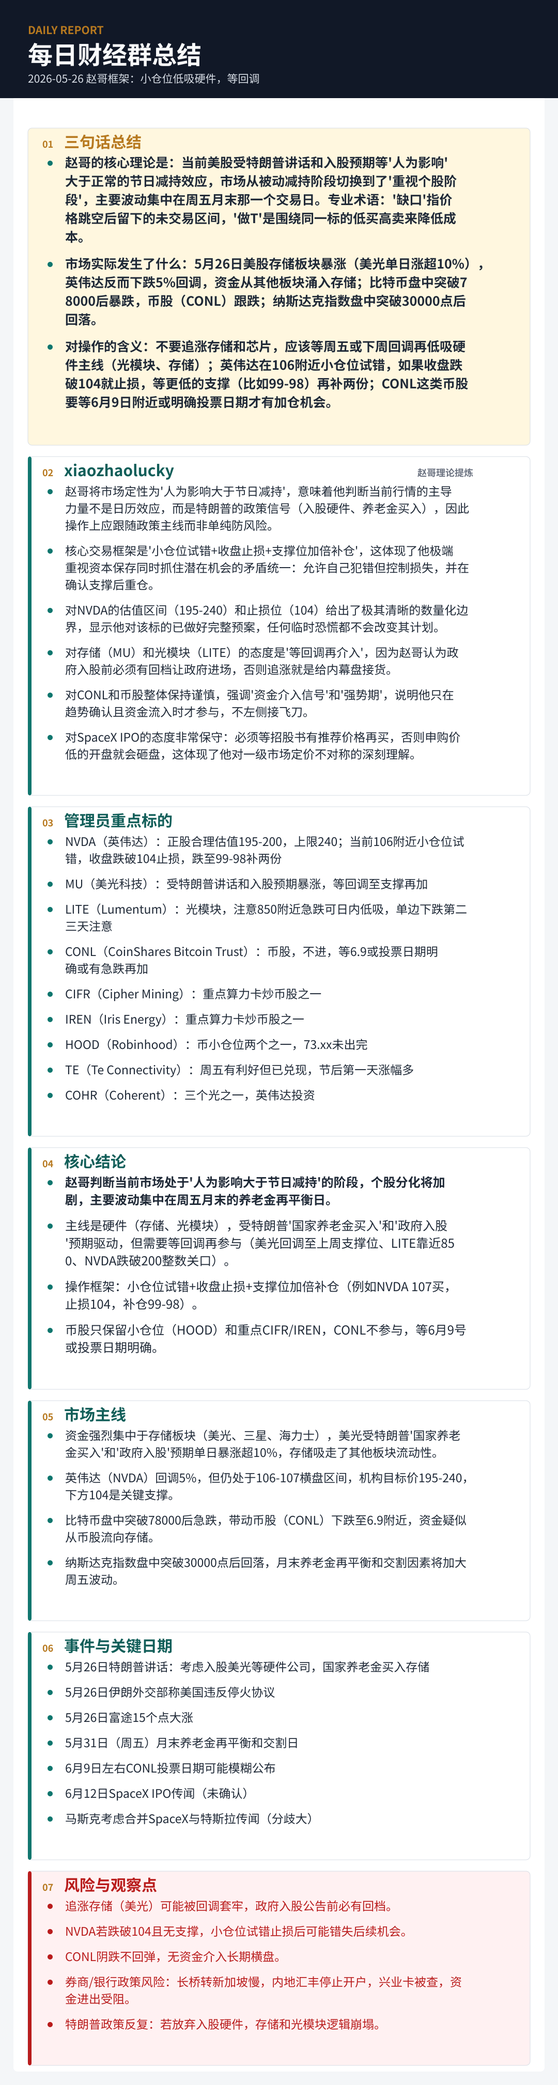
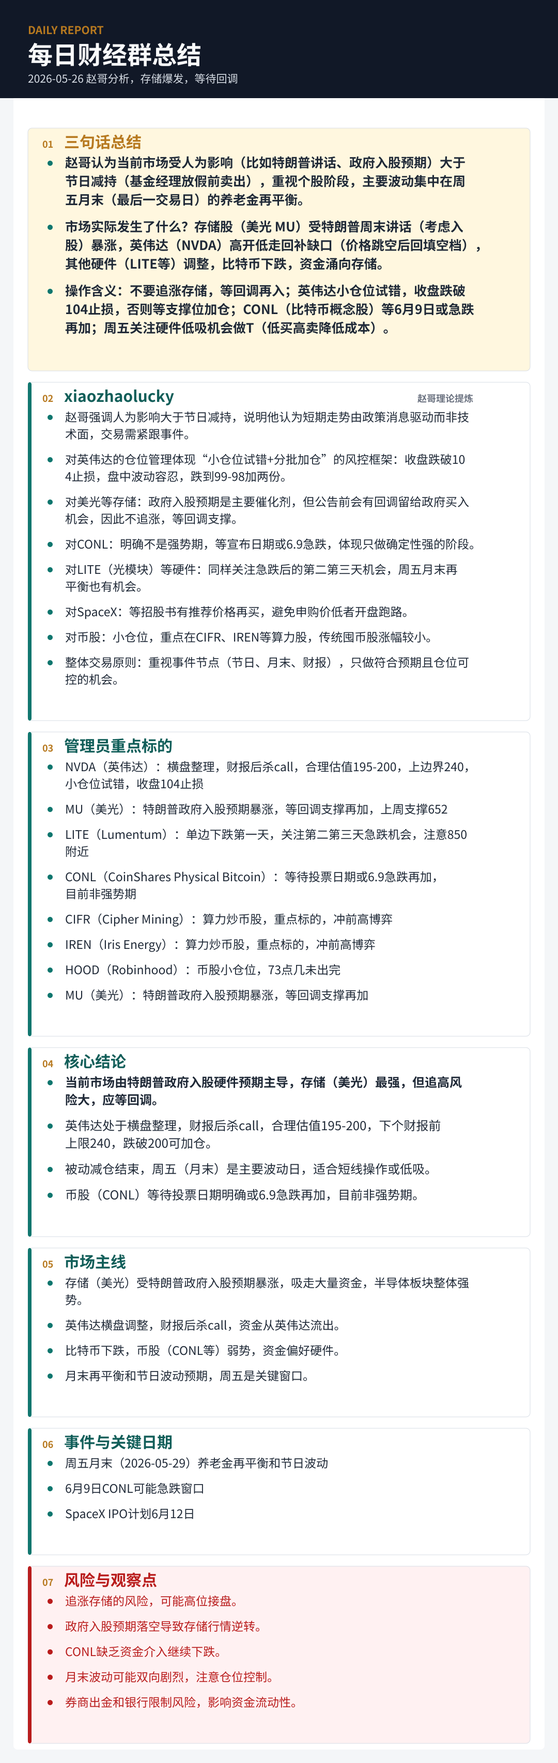
Auto daily publish: 2026-05-27 12:55:42 CST

diff --git a/docs/index.md b/docs/index.md
@@ -1,120 +1,113 @@
 # 财经聊天总结 - 每日定时总结（过去24小时）
 
-> 北京时间：2026-05-27 12:16:58 CST
+> 北京时间：2026-05-27 12:55:42 CST
 
-> 美西时间：2026-05-26 21:16:58 PST
+> 美西时间：2026-05-26 21:55:42 PST
 
-> 美东时间：2026-05-27 00:16:58 EST
+> 美东时间：2026-05-27 00:55:42 EST
 
 > 模型：deepseek-v4-flash
 
 ## 三句话总结
-- 赵哥的核心理论是：当前美股受特朗普讲话和入股预期等'人为影响'大于正常的节日减持效应，市场从被动减持阶段切换到了'重视个股阶段'，主要波动集中在周五月末那一个交易日。专业术语：'缺口'指价格跳空后留下的未交易区间，'做T'是围绕同一标的低买高卖来降低成本。
-- 市场实际发生了什么：5月26日美股存储板块暴涨（美光单日涨超10%），英伟达反而下跌5%回调，资金从其他板块涌入存储；比特币盘中突破78000后暴跌，币股（CONL）跟跌；纳斯达克指数盘中突破30000点后回落。
-- 对操作的含义：不要追涨存储和芯片，应该等周五或下周回调再低吸硬件主线（光模块、存储）；英伟达在106附近小仓位试错，如果收盘跌破104就止损，等更低的支撑（比如99-98）再补两份；CONL这类币股要等6月9日附近或明确投票日期才有加仓机会。
+- 赵哥认为当前市场受人为影响（比如特朗普讲话、政府入股预期）大于节日减持（基金经理放假前卖出），重视个股阶段，主要波动集中在周五月末（最后一交易日）的养老金再平衡。
+- 市场实际发生了什么？存储股（美光 MU）受特朗普周末讲话（考虑入股）暴涨，英伟达（NVDA）高开低走回补缺口（价格跳空后回填空档），其他硬件（LITE等）调整，比特币下跌，资金涌向存储。
+- 操作含义：不要追涨存储，等回调再入；英伟达小仓位试错，收盘跌破104止损，否则等支撑位加仓；CONL（比特币概念股）等6月9日或急跌再加；周五关注硬件低吸机会做T（低买高卖降低成本）。
 
 ## 核心结论
-- 赵哥判断当前市场处于'人为影响大于节日减持'的阶段，个股分化将加剧，主要波动集中在周五月末的养老金再平衡日。
-- 主线是硬件（存储、光模块），受特朗普'国家养老金买入'和'政府入股'预期驱动，但需要等回调再参与（美光回调至上周支撑位、LITE靠近850、NVDA跌破200整数关口）。
-- 操作框架：小仓位试错+收盘止损+支撑位加倍补仓（例如NVDA 107买，止损104，补仓99-98）。
-- 币股只保留小仓位（HOOD）和重点CIFR/IREN，CONL不参与，等6月9号或投票日期明确。
+- 当前市场由特朗普政府入股硬件预期主导，存储（美光）最强，但追高风险大，应等回调。
+- 英伟达处于横盘整理，财报后杀call，合理估值195-200，下个财报前上限240，跌破200可加仓。
+- 被动减仓结束，周五（月末）是主要波动日，适合短线操作或低吸。
+- 币股（CONL）等待投票日期明确或6.9急跌再加，目前非强势期。
 
 ## 市场状态判断
-- 市场处于节日减持结束后的'个股主导阶段'，指数受少数权重股（美光）驱动，分化严重。
-- 资金环境：政策信号（特朗普入股硬件）取代日历效应成为主要驱动力，波动率集中在周五而非全周。
-- 波动结构：NVDA等成长股被存储抽血，形成'硬件涨、AI回调'的跷跷板。
+- 当前市场处于政策驱动型上涨，特朗普政府入股硬件预期主导资金流向。
+- 资金高度集中于存储（美光），其他板块（英伟达、光模块）消化获利盘。
+- 波动率加大，周五（月末）是重要变盘节点。
 
 ### 核心理论
-- 赵哥的'小仓位试错-收盘止损-支撑位补仓'框架本质是一种极简的高胜率赔率管理：用小额损失测试方向，一旦方向错误仅损失小仓位，方向正确则在支撑位加倍。
-- 核心原则是'不追涨，只低吸'：所有加仓动作必须基于价格回到近期支撑或公告后回调。
-- 对政策驱动行情（如特朗普入股）的参与必须等待'政府买入确认'或'资金介入信号'，避免在利好兑现后接盘。
+- 仓位管理：小仓位试错，收盘止损，不追涨，等回调支撑分批加仓。
+- 事件驱动：只做有明确催化剂的阶段（政策讲话、财报、节日前后）。
+- 不参与弱势期：CONL等非强势期等待资金介入信号。
+- 新股策略：等招股书有推荐价格，避免开盘抛压。
 
 ### 证据链
-- NVDA价格行为：财报后杀call两天，然后横盘106-107，符合赵哥说的'横盘一段时间再上去'。
-- 美光价格行为：上周跌至652支撑（赵哥说'上周不就是跌支撑了'），本周受特朗普讲话暴涨，验证了'跌支撑就是机会'。
-- CONL价格行为：跌破7，接近6.9，赵哥说'等6.9左右有急跌再加'，目前价格尚未触发。
-- LITE价格行为：单边下跌第一天（5/26），赵哥说注意第二第三天低吸，且提到850附近。
-- 特朗普讲话：周末说intc成功可以复刻，未来入股其他硬件，直接推动存储和光模块预期。
+- 美光受特朗普周末讲话跳空高开，涨幅达100美元/股。
+- 英伟达高开低走，财报后连续杀call，横盘在106-107附近。
+- LITE单边下跌第一天，赵哥指出后续第二第三天注意。
+- CONL持续下跌未见资金介入，赵哥明确等待6.9或宣布日期。
+- CIFR、IREN等算力股逆势冲前高，符合币股资金博弈。
 
 ### 交易框架拆解
-- **入场条件**：NVDA：收盘不破104则可继续持有小仓位；若跌破104则止损，等待99-98补两份。；MU：等待回调至近期支撑（如上周652附近），或政府入股公告后的回调机会。；LITE：单边下跌第二或第三天，靠近850附近可日内低吸。；CONL：等待投票日期模糊公布或6月9号附近急跌破6.9后再考虑。
-- **持仓逻辑**：小仓位试错单在止损位之上可以持有，不设主观目标，等待逻辑兑现或触发条件。；支撑位补仓后，综合成本降低，可持有至目标区间（如NVDA 195-200）。
-- **退出条件**：NVDA：收盘破104则立即止损；若反弹至195-200合理估值区可考虑止盈部分。；MU：若政府入股公告后暴涨，或达到目标价（上调后），应分批止盈。；所有短线仓位（如LITE日内）当天了结，不隔夜。
-- **仓位纪律**：初始试错仓位不超过总资金的10%。；若止损后，在下一个支撑位可补至三分之二仓位（如NVDA 99-98买两份）。；不因浮亏而加仓，必须等价格回到预设支撑。
-- **风控规则**：严格收盘止损，盘中不操作。；不追涨任何当日涨幅超过5%的标的。；币股（CONL）不参与，直到有明确资金介入信号。；所有基于政策的标的（MU、LITE）必须等待回调，避免给内幕盘接货。
-- **观察信号**：周四-周五是否出现单边下跌第二第三天，即LITE和NVDA的日内低吸机会。；周五月末养老金再平衡和交割是否导致指数波动放大，从而创造硬件低点。；CONL是否在6月9号附近出现急跌至6.9以下，且伴随成交量放大。；特朗普是否进一步明确对美光或其他硬件公司的入股计划。
-- **失效条件**：如果NVDA跌破104后继续加速下跌，且不出现99-98的支撑，则框架失效，应清仓等待更低位。；如果特朗普放弃入股硬件计划，存储和光模块的逻辑瓦解，所有相关标的需重新评估。；如果市场突然转向大盘权重（如银行、消费），硬件主线被证伪。
+- **入场条件**：NVDA：收盘不跌破104可持有，跌破则小仓位止损；若跌至99-98加两份。；MU：等回调至上周支撑（652附近）再考虑。；LITE：单边下跌第二第三天急跌可日内做T，周五再平衡也可关注。；CONL：等待投票日期模糊公布或6.9急跌出现。
+- **持仓逻辑**：NVDA：目标下个财报前240，中间可做T降低成本。；MU：持股等政府入股公告或回调支撑加仓。；LITE：850附近注意支撑，急跌后持有。；CONL：非强势期不持有，等信号。
+- **退出条件**：NVDA：收盘跌破104止损；涨幅达到240附近减仓。；MU：入股公告后若暴涨可考虑止盈部分。；LITE：急跌反弹后做T离场，不贪。；CONL：若跌破6.0且无资金介入则退出观察。
+- **仓位纪律**：NVDA初始小仓位，跌破支撑加至三分之二。；MU回调支撑可加至正常仓位。；CONL等信号再介入，不提前重仓。；总仓位控制，避免单一标的过度集中。
+- **风控规则**：收盘止损，盘中不止损。；不追涨，只低吸。；不参与弱势期（CONL）。；关注周五月末波动，可能双向剧烈。
+- **观察信号**：周五（2026-05-29）月末交割和养老金再平衡的波动。；美光是否回调至上周支撑。；CONL是否有投票日期公布或6.9急跌。；特朗普后续关于硬件入股的讲话。；SpaceX IPO招股书中的推荐价格。
+- **失效条件**：若英伟达连续跌破100且无法收回，则框架失效。；若美光政府入股预期落空（如公告否认），则存储行情逆转。；若市场出现系统性风险（美联储突转鹰、地缘冲突升级），所有框架暂停。；若CONL出现连续下跌无资金介入，则等待策略需重新评估。
 
 ## xiaozhaolucky
 ### 深度解读
-- 赵哥将市场定性为'人为影响大于节日减持'，意味着他判断当前行情的主导力量不是日历效应，而是特朗普的政策信号（入股硬件、养老金买入），因此操作上应跟随政策主线而非单纯防风险。
-- 核心交易框架是'小仓位试错+收盘止损+支撑位加倍补仓'，这体现了他极端重视资本保存同时抓住潜在机会的矛盾统一：允许自己犯错但控制损失，并在确认支撑后重仓。
-- 对NVDA的估值区间（195-240）和止损位（104）给出了极其清晰的数量化边界，显示他对该标的已做好完整预案，任何临时恐慌都不会改变其计划。
-- 对存储（MU）和光模块（LITE）的态度是'等回调再介入'，因为赵哥认为政府入股前必须有回档让政府进场，否则追涨就是给内幕盘接货。
-- 对CONL和币股整体保持谨慎，强调'资金介入信号'和'强势期'，说明他只在趋势确认且资金流入时才参与，不左侧接飞刀。
-- 对SpaceX IPO的态度非常保守：必须等招股书有推荐价格再买，否则申购价低的开盘就会砸盘，这体现了他对一级市场定价不对称的深刻理解。
+- 赵哥强调人为影响大于节日减持，说明他认为短期走势由政策消息驱动而非技术面，交易需紧跟事件。
+- 对英伟达的仓位管理体现“小仓位试错+分批加仓”的风控框架：收盘跌破104止损，盘中波动容忍，跌到99-98加两份。
+- 对美光等存储：政府入股预期是主要催化剂，但公告前会有回调留给政府买入机会，因此不追涨，等回调支撑。
+- 对CONL：明确不是强势期，等宣布日期或6.9急跌，体现只做确定性强的阶段。
+- 对LITE（光模块）等硬件：同样关注急跌后的第二第三天机会，周五月末再平衡也有机会。
+- 对SpaceX：等招股书有推荐价格再买，避免申购价低者开盘跑路。
+- 对币股：小仓位，重点在CIFR、IREN等算力股，传统囤币股涨幅较小。
+- 整体交易原则：重视事件节点（节日、月末、财报），只做符合预期且仓位可控的机会。
 
 ### 管理员重点标的
 | 标的 | 逻辑 | 触发条件 | 动作 | 风险 |
 | --- | --- | --- | --- | --- |
-| NVDA（英伟达） | 正股合理估值195-200，上限240；当前106附近小仓位试错，收盘跌破104止损，跌至99-98补两份 | 待确认 | 观察 | 未明确 |
-| MU（美光科技） | 受特朗普讲话和入股预期暴涨，等回调至支撑再加 | 待确认 | 观察 | 未明确 |
-| LITE（Lumentum） | 光模块，注意850附近急跌可日内低吸，单边下跌第二三天注意 | 待确认 | 观察 | 未明确 |
-| CONL（CoinShares Bitcoin Trust） | 币股，不进，等6.9或投票日期明确或有急跌再加 | 待确认 | 观察 | 未明确 |
-| CIFR（Cipher Mining） | 重点算力卡炒币股之一 | 待确认 | 观察 | 未明确 |
-| IREN（Iris Energy） | 重点算力卡炒币股之一 | 待确认 | 观察 | 未明确 |
-| HOOD（Robinhood） | 币小仓位两个之一，73.xx未出完 | 待确认 | 观察 | 未明确 |
-| TE（Te Connectivity） | 周五有利好但已兑现，节后第一天涨幅多 | 待确认 | 观察 | 未明确 |
-| COHR（Coherent） | 三个光之一，英伟达投资 | 待确认 | 观察 | 未明确 |
-| GLW（康宁） | 三个光之一，英伟达投资 | 待确认 | 观察 | 未明确 |
-| NVDA（英伟达） | 财报后杀call2天，横盘后再上去；机构给合理估值195-200，上限下个财报前240 | 收盘跌破104止损；200整数位跌破买多点 | 当前小仓位持有，若跌至99-98补两份 | 跌破104继续下跌则框架失效 |
-| MU（美光科技） | 特朗普讲话说考虑入股，像intc那样；未入股前会回调给政府入的机会 | 回调至支撑位（如652附近） | 回调后再加 | 回调幅度可能不够，或政府入股落空 |
-| LITE（Lumentum） | 同为光模块，受特朗普访华硬件预期，单边下跌第二三天注意 | 单边下跌第二天或第三天，靠近850 | 日内低吸，当天了结 | 继续下跌无支撑 |
-| CONL（CoinShares Bitcoin Trust） | 不是强势期，等有资金介入才会加 | 投票日期模糊公布或6.9左右急跌 | 暂不加仓，等明确信号 | 继续阴跌无资金介入 |
-| CIFR（Cipher Mining） | 传统囤币股涨幅小，算力卡炒币股幅度更大 | 未明确 | 持有 | 比特币波动 |
-| IREN（Iris Energy） | 同上 | 未明确 | 持有 | 比特币波动 |
+| NVDA（英伟达） | 横盘整理，财报后杀call，合理估值195-200，上边界240，小仓位试错，收盘104止损 | 待确认 | 观察 | 未明确 |
+| MU（美光） | 特朗普政府入股预期暴涨，等回调支撑再加，上周支撑652 | 待确认 | 观察 | 未明确 |
+| LITE（Lumentum） | 单边下跌第一天，关注第二第三天急跌机会，注意850附近 | 待确认 | 观察 | 未明确 |
+| CONL（CoinShares Physical Bitcoin） | 等待投票日期或6.9急跌再加，目前非强势期 | 待确认 | 观察 | 未明确 |
+| CIFR（Cipher Mining） | 算力炒币股，重点标的，冲前高博弈 | 待确认 | 观察 | 未明确 |
+| IREN（Iris Energy） | 算力炒币股，重点标的，冲前高博弈 | 待确认 | 观察 | 未明确 |
+| HOOD（Robinhood） | 币股小仓位，73点几未出完 | 待确认 | 观察 | 未明确 |
+| MU（美光） | 特朗普周末讲话考虑入股美光像英特尔那样，今天涨多；没有入股前都会回调给政府入的机会 | 回调至上周支撑（652附近） | 稍微回调点再加，不追涨 | 政府入股预期落空或延迟 |
 
 ## 其他用户
 ### 用户观点提炼
-- 多数用户踏空存储（美光）和半导体，情绪急躁，有人想追涨，有人后悔上次回调没买。
-- 部分用户讨论了券商限制、账户转移（嘉信、盈透、长桥转新加坡）以及香港身份问题，担忧资金出逃风险。
-- 有用户提出'祖训看空不做空'，并回忆做空亏损经历；也有用户尝试做空半导体（SOXS）并迅速平仓获利2%。
-- 用户对特斯拉/SpaceX合并传闻有分歧：有人认为不可能，有人认为消息已提前反应，赵哥未对此表态。
-- 用户提到了SOFI、PLTR、ASTS、AMD、COIN等标的，但并无一致操作方向。
+- 踏空存储（美光）的后悔和FOMO情绪，多次提到“买不回美光”“存储太强”。
+- 英伟达下跌时讨论止损和支撑，部分用户表示“一股不卖”“等赵哥操作”。
+- 对CONL下跌的担忧，有人问“要不要加”“见6了”。
+- 讨论特斯拉和SpaceX合并传闻，多数人认为可能性低。
+- 讨论银行限制、券商出金变慢等风险，表达焦虑。
 
 ### 普通用户提到的标的
-- **SOFI（SoFi Technologies）**: 用户讨论：增持消息拉高后回落，有用户已回本
-- **TSLA（特斯拉）**: 用户讨论：SpaceX合并传闻导致尾盘拉升，多数认为不可能
-- **PLTR（Palantir）**: 用户讨论：有用户提到以前2块多买过，现在可能到100
-- **ASTS（AST SpaceMobile）**: 用户讨论：涨得猛，但管理员表示不会做太空板块
-- **MSFT（微软）**: 用户讨论：软，没动静
-- **WMT（沃尔玛）**: 用户讨论：没动静
-- **AMD（超威半导体）**: 用户讨论：周哥提到AMD到500了
-- **COIN（Coinbase）**: 用户讨论：币股不涨
-- **SOXS（Direxion Daily Semiconductor Bear 3x Shares）**: 用户讨论：做空半导体，小赚2%跑路
+- **TSLA（特斯拉）**: SpaceX合并传闻，用户讨论，涨幅一般
+- **SOFI（SoFi）**: 用户持有，今天涨后回落
+- **PLTR（Palantir）**: 用户提到之前买过2块多
+- **ASTS（AST SpaceMobile）**: 用户询问，赵哥表示不会做
+- **AMD（AMD）**: 用户提到股价到500
+- **COIN（Coinbase）**: 用户讨论比特币跌但coin不涨
+- **SOXS（三倍做空半导体）**: 用户提到7块了，祖训看空不做空
+- **IBM（IBM）**: 用户提到入了20亿半死不活
+- **TMUS（T-Mobile）**: 用户询问SpaceX合作伙伴
+- **JPM（摩根大通）**: 用户问金融板块
+- **APH（安费诺）**: 用户抄了一笔询问
 
 ## 市场主线
-- 资金强烈集中于存储板块（美光、三星、海力士），美光受特朗普'国家养老金买入'和'政府入股'预期单日暴涨超10%，存储吸走了其他板块流动性。
-- 英伟达（NVDA）回调5%，但仍处于106-107横盘区间，机构目标价195-240，下方104是关键支撑。
-- 比特币盘中突破78000后急跌，带动币股（CONL）下跌至6.9附近，资金疑似从币股流向存储。
-- 纳斯达克指数盘中突破30000点后回落，月末养老金再平衡和交割因素将加大周五波动。
+- 存储（美光）受特朗普政府入股预期暴涨，吸走大量资金，半导体板块整体强势。
+- 英伟达横盘调整，财报后杀call，资金从英伟达流出。
+- 比特币下跌，币股（CONL等）弱势，资金偏好硬件。
+- 月末再平衡和节日波动预期，周五是关键窗口。
 
 ## 期权与交易策略
 - 暂无明确记录。
 
 ## 事件与关键日期
-- 5月26日特朗普讲话：考虑入股美光等硬件公司，国家养老金买入存储
-- 5月26日伊朗外交部称美国违反停火协议
-- 5月26日富途15个点大涨
-- 5月31日（周五）月末养老金再平衡和交割日
-- 6月9日左右CONL投票日期可能模糊公布
-- 6月12日SpaceX IPO传闻（未确认）
-- 马斯克考虑合并SpaceX与特斯拉传闻（分歧大）
+- 周五月末（2026-05-29）养老金再平衡和节日波动
+- 6月9日CONL可能急跌窗口
+- SpaceX IPO计划6月12日
 
 ## 风险与观察点
-- 追涨存储（美光）可能被回调套牢，政府入股公告前必有回档。
-- NVDA若跌破104且无支撑，小仓位试错止损后可能错失后续机会。
-- CONL阴跌不回弹，无资金介入长期横盘。
-- 券商/银行政策风险：长桥转新加坡慢，内地汇丰停止开户，兴业卡被查，资金进出受阻。
-- 特朗普政策反复：若放弃入股硬件，存储和光模块逻辑崩塌。
+- 追涨存储的风险，可能高位接盘。
+- 政府入股预期落空导致存储行情逆转。
+- CONL缺乏资金介入继续下跌。
+- 月末波动可能双向剧烈，注意仓位控制。
+- 券商出金和银行限制风险，影响资金流动性。
 

diff --git a/docs/summaries/2026-05/2026-05-27-每日总结.md b/docs/summaries/2026-05/2026-05-27-每日总结.md
@@ -1,117 +1,110 @@
-# 2026-05-27 12:16:58 CST 总结 - 每日定时总结（过去24小时）
+# 2026-05-27 12:55:42 CST 总结 - 每日定时总结（过去24小时）
 
-> 美西时间：2026-05-26 21:16:58 PST
+> 美西时间：2026-05-26 21:55:42 PST
 
-> 美东时间：2026-05-27 00:16:58 EST
+> 美东时间：2026-05-27 00:55:42 EST
 
 > 模型：deepseek-v4-flash
 
 ## 三句话总结
-- 赵哥的核心理论是：当前美股受特朗普讲话和入股预期等'人为影响'大于正常的节日减持效应，市场从被动减持阶段切换到了'重视个股阶段'，主要波动集中在周五月末那一个交易日。专业术语：'缺口'指价格跳空后留下的未交易区间，'做T'是围绕同一标的低买高卖来降低成本。
-- 市场实际发生了什么：5月26日美股存储板块暴涨（美光单日涨超10%），英伟达反而下跌5%回调，资金从其他板块涌入存储；比特币盘中突破78000后暴跌，币股（CONL）跟跌；纳斯达克指数盘中突破30000点后回落。
-- 对操作的含义：不要追涨存储和芯片，应该等周五或下周回调再低吸硬件主线（光模块、存储）；英伟达在106附近小仓位试错，如果收盘跌破104就止损，等更低的支撑（比如99-98）再补两份；CONL这类币股要等6月9日附近或明确投票日期才有加仓机会。
+- 赵哥认为当前市场受人为影响（比如特朗普讲话、政府入股预期）大于节日减持（基金经理放假前卖出），重视个股阶段，主要波动集中在周五月末（最后一交易日）的养老金再平衡。
+- 市场实际发生了什么？存储股（美光 MU）受特朗普周末讲话（考虑入股）暴涨，英伟达（NVDA）高开低走回补缺口（价格跳空后回填空档），其他硬件（LITE等）调整，比特币下跌，资金涌向存储。
+- 操作含义：不要追涨存储，等回调再入；英伟达小仓位试错，收盘跌破104止损，否则等支撑位加仓；CONL（比特币概念股）等6月9日或急跌再加；周五关注硬件低吸机会做T（低买高卖降低成本）。
 
 ## 核心结论
-- 赵哥判断当前市场处于'人为影响大于节日减持'的阶段，个股分化将加剧，主要波动集中在周五月末的养老金再平衡日。
-- 主线是硬件（存储、光模块），受特朗普'国家养老金买入'和'政府入股'预期驱动，但需要等回调再参与（美光回调至上周支撑位、LITE靠近850、NVDA跌破200整数关口）。
-- 操作框架：小仓位试错+收盘止损+支撑位加倍补仓（例如NVDA 107买，止损104，补仓99-98）。
-- 币股只保留小仓位（HOOD）和重点CIFR/IREN，CONL不参与，等6月9号或投票日期明确。
+- 当前市场由特朗普政府入股硬件预期主导，存储（美光）最强，但追高风险大，应等回调。
+- 英伟达处于横盘整理，财报后杀call，合理估值195-200，下个财报前上限240，跌破200可加仓。
+- 被动减仓结束，周五（月末）是主要波动日，适合短线操作或低吸。
+- 币股（CONL）等待投票日期明确或6.9急跌再加，目前非强势期。
 
 ## 市场状态判断
-- 市场处于节日减持结束后的'个股主导阶段'，指数受少数权重股（美光）驱动，分化严重。
-- 资金环境：政策信号（特朗普入股硬件）取代日历效应成为主要驱动力，波动率集中在周五而非全周。
-- 波动结构：NVDA等成长股被存储抽血，形成'硬件涨、AI回调'的跷跷板。
+- 当前市场处于政策驱动型上涨，特朗普政府入股硬件预期主导资金流向。
+- 资金高度集中于存储（美光），其他板块（英伟达、光模块）消化获利盘。
+- 波动率加大，周五（月末）是重要变盘节点。
 
 ### 核心理论
-- 赵哥的'小仓位试错-收盘止损-支撑位补仓'框架本质是一种极简的高胜率赔率管理：用小额损失测试方向，一旦方向错误仅损失小仓位，方向正确则在支撑位加倍。
-- 核心原则是'不追涨，只低吸'：所有加仓动作必须基于价格回到近期支撑或公告后回调。
-- 对政策驱动行情（如特朗普入股）的参与必须等待'政府买入确认'或'资金介入信号'，避免在利好兑现后接盘。
+- 仓位管理：小仓位试错，收盘止损，不追涨，等回调支撑分批加仓。
+- 事件驱动：只做有明确催化剂的阶段（政策讲话、财报、节日前后）。
+- 不参与弱势期：CONL等非强势期等待资金介入信号。
+- 新股策略：等招股书有推荐价格，避免开盘抛压。
 
 ### 证据链
-- NVDA价格行为：财报后杀call两天，然后横盘106-107，符合赵哥说的'横盘一段时间再上去'。
-- 美光价格行为：上周跌至652支撑（赵哥说'上周不就是跌支撑了'），本周受特朗普讲话暴涨，验证了'跌支撑就是机会'。
-- CONL价格行为：跌破7，接近6.9，赵哥说'等6.9左右有急跌再加'，目前价格尚未触发。
-- LITE价格行为：单边下跌第一天（5/26），赵哥说注意第二第三天低吸，且提到850附近。
-- 特朗普讲话：周末说intc成功可以复刻，未来入股其他硬件，直接推动存储和光模块预期。
+- 美光受特朗普周末讲话跳空高开，涨幅达100美元/股。
+- 英伟达高开低走，财报后连续杀call，横盘在106-107附近。
+- LITE单边下跌第一天，赵哥指出后续第二第三天注意。
+- CONL持续下跌未见资金介入，赵哥明确等待6.9或宣布日期。
+- CIFR、IREN等算力股逆势冲前高，符合币股资金博弈。
 
 ### 交易框架拆解
-- **入场条件**：NVDA：收盘不破104则可继续持有小仓位；若跌破104则止损，等待99-98补两份。；MU：等待回调至近期支撑（如上周652附近），或政府入股公告后的回调机会。；LITE：单边下跌第二或第三天，靠近850附近可日内低吸。；CONL：等待投票日期模糊公布或6月9号附近急跌破6.9后再考虑。
-- **持仓逻辑**：小仓位试错单在止损位之上可以持有，不设主观目标，等待逻辑兑现或触发条件。；支撑位补仓后，综合成本降低，可持有至目标区间（如NVDA 195-200）。
-- **退出条件**：NVDA：收盘破104则立即止损；若反弹至195-200合理估值区可考虑止盈部分。；MU：若政府入股公告后暴涨，或达到目标价（上调后），应分批止盈。；所有短线仓位（如LITE日内）当天了结，不隔夜。
-- **仓位纪律**：初始试错仓位不超过总资金的10%。；若止损后，在下一个支撑位可补至三分之二仓位（如NVDA 99-98买两份）。；不因浮亏而加仓，必须等价格回到预设支撑。
-- **风控规则**：严格收盘止损，盘中不操作。；不追涨任何当日涨幅超过5%的标的。；币股（CONL）不参与，直到有明确资金介入信号。；所有基于政策的标的（MU、LITE）必须等待回调，避免给内幕盘接货。
-- **观察信号**：周四-周五是否出现单边下跌第二第三天，即LITE和NVDA的日内低吸机会。；周五月末养老金再平衡和交割是否导致指数波动放大，从而创造硬件低点。；CONL是否在6月9号附近出现急跌至6.9以下，且伴随成交量放大。；特朗普是否进一步明确对美光或其他硬件公司的入股计划。
-- **失效条件**：如果NVDA跌破104后继续加速下跌，且不出现99-98的支撑，则框架失效，应清仓等待更低位。；如果特朗普放弃入股硬件计划，存储和光模块的逻辑瓦解，所有相关标的需重新评估。；如果市场突然转向大盘权重（如银行、消费），硬件主线被证伪。
+- **入场条件**：NVDA：收盘不跌破104可持有，跌破则小仓位止损；若跌至99-98加两份。；MU：等回调至上周支撑（652附近）再考虑。；LITE：单边下跌第二第三天急跌可日内做T，周五再平衡也可关注。；CONL：等待投票日期模糊公布或6.9急跌出现。
+- **持仓逻辑**：NVDA：目标下个财报前240，中间可做T降低成本。；MU：持股等政府入股公告或回调支撑加仓。；LITE：850附近注意支撑，急跌后持有。；CONL：非强势期不持有，等信号。
+- **退出条件**：NVDA：收盘跌破104止损；涨幅达到240附近减仓。；MU：入股公告后若暴涨可考虑止盈部分。；LITE：急跌反弹后做T离场，不贪。；CONL：若跌破6.0且无资金介入则退出观察。
+- **仓位纪律**：NVDA初始小仓位，跌破支撑加至三分之二。；MU回调支撑可加至正常仓位。；CONL等信号再介入，不提前重仓。；总仓位控制，避免单一标的过度集中。
+- **风控规则**：收盘止损，盘中不止损。；不追涨，只低吸。；不参与弱势期（CONL）。；关注周五月末波动，可能双向剧烈。
+- **观察信号**：周五（2026-05-29）月末交割和养老金再平衡的波动。；美光是否回调至上周支撑。；CONL是否有投票日期公布或6.9急跌。；特朗普后续关于硬件入股的讲话。；SpaceX IPO招股书中的推荐价格。
+- **失效条件**：若英伟达连续跌破100且无法收回，则框架失效。；若美光政府入股预期落空（如公告否认），则存储行情逆转。；若市场出现系统性风险（美联储突转鹰、地缘冲突升级），所有框架暂停。；若CONL出现连续下跌无资金介入，则等待策略需重新评估。
 
 ## xiaozhaolucky
 ### 深度解读
-- 赵哥将市场定性为'人为影响大于节日减持'，意味着他判断当前行情的主导力量不是日历效应，而是特朗普的政策信号（入股硬件、养老金买入），因此操作上应跟随政策主线而非单纯防风险。
-- 核心交易框架是'小仓位试错+收盘止损+支撑位加倍补仓'，这体现了他极端重视资本保存同时抓住潜在机会的矛盾统一：允许自己犯错但控制损失，并在确认支撑后重仓。
-- 对NVDA的估值区间（195-240）和止损位（104）给出了极其清晰的数量化边界，显示他对该标的已做好完整预案，任何临时恐慌都不会改变其计划。
-- 对存储（MU）和光模块（LITE）的态度是'等回调再介入'，因为赵哥认为政府入股前必须有回档让政府进场，否则追涨就是给内幕盘接货。
-- 对CONL和币股整体保持谨慎，强调'资金介入信号'和'强势期'，说明他只在趋势确认且资金流入时才参与，不左侧接飞刀。
-- 对SpaceX IPO的态度非常保守：必须等招股书有推荐价格再买，否则申购价低的开盘就会砸盘，这体现了他对一级市场定价不对称的深刻理解。
+- 赵哥强调人为影响大于节日减持，说明他认为短期走势由政策消息驱动而非技术面，交易需紧跟事件。
+- 对英伟达的仓位管理体现“小仓位试错+分批加仓”的风控框架：收盘跌破104止损，盘中波动容忍，跌到99-98加两份。
+- 对美光等存储：政府入股预期是主要催化剂，但公告前会有回调留给政府买入机会，因此不追涨，等回调支撑。
+- 对CONL：明确不是强势期，等宣布日期或6.9急跌，体现只做确定性强的阶段。
+- 对LITE（光模块）等硬件：同样关注急跌后的第二第三天机会，周五月末再平衡也有机会。
+- 对SpaceX：等招股书有推荐价格再买，避免申购价低者开盘跑路。
+- 对币股：小仓位，重点在CIFR、IREN等算力股，传统囤币股涨幅较小。
+- 整体交易原则：重视事件节点（节日、月末、财报），只做符合预期且仓位可控的机会。
 
 ### 管理员重点标的
 | 标的 | 逻辑 | 触发条件 | 动作 | 风险 |
 | --- | --- | --- | --- | --- |
-| NVDA（英伟达） | 正股合理估值195-200，上限240；当前106附近小仓位试错，收盘跌破104止损，跌至99-98补两份 | 待确认 | 观察 | 未明确 |
-| MU（美光科技） | 受特朗普讲话和入股预期暴涨，等回调至支撑再加 | 待确认 | 观察 | 未明确 |
-| LITE（Lumentum） | 光模块，注意850附近急跌可日内低吸，单边下跌第二三天注意 | 待确认 | 观察 | 未明确 |
-| CONL（CoinShares Bitcoin Trust） | 币股，不进，等6.9或投票日期明确或有急跌再加 | 待确认 | 观察 | 未明确 |
-| CIFR（Cipher Mining） | 重点算力卡炒币股之一 | 待确认 | 观察 | 未明确 |
-| IREN（Iris Energy） | 重点算力卡炒币股之一 | 待确认 | 观察 | 未明确 |
-| HOOD（Robinhood） | 币小仓位两个之一，73.xx未出完 | 待确认 | 观察 | 未明确 |
-| TE（Te Connectivity） | 周五有利好但已兑现，节后第一天涨幅多 | 待确认 | 观察 | 未明确 |
-| COHR（Coherent） | 三个光之一，英伟达投资 | 待确认 | 观察 | 未明确 |
-| GLW（康宁） | 三个光之一，英伟达投资 | 待确认 | 观察 | 未明确 |
-| NVDA（英伟达） | 财报后杀call2天，横盘后再上去；机构给合理估值195-200，上限下个财报前240 | 收盘跌破104止损；200整数位跌破买多点 | 当前小仓位持有，若跌至99-98补两份 | 跌破104继续下跌则框架失效 |
-| MU（美光科技） | 特朗普讲话说考虑入股，像intc那样；未入股前会回调给政府入的机会 | 回调至支撑位（如652附近） | 回调后再加 | 回调幅度可能不够，或政府入股落空 |
-| LITE（Lumentum） | 同为光模块，受特朗普访华硬件预期，单边下跌第二三天注意 | 单边下跌第二天或第三天，靠近850 | 日内低吸，当天了结 | 继续下跌无支撑 |
-| CONL（CoinShares Bitcoin Trust） | 不是强势期，等有资金介入才会加 | 投票日期模糊公布或6.9左右急跌 | 暂不加仓，等明确信号 | 继续阴跌无资金介入 |
-| CIFR（Cipher Mining） | 传统囤币股涨幅小，算力卡炒币股幅度更大 | 未明确 | 持有 | 比特币波动 |
-| IREN（Iris Energy） | 同上 | 未明确 | 持有 | 比特币波动 |
+| NVDA（英伟达） | 横盘整理，财报后杀call，合理估值195-200，上边界240，小仓位试错，收盘104止损 | 待确认 | 观察 | 未明确 |
+| MU（美光） | 特朗普政府入股预期暴涨，等回调支撑再加，上周支撑652 | 待确认 | 观察 | 未明确 |
+| LITE（Lumentum） | 单边下跌第一天，关注第二第三天急跌机会，注意850附近 | 待确认 | 观察 | 未明确 |
+| CONL（CoinShares Physical Bitcoin） | 等待投票日期或6.9急跌再加，目前非强势期 | 待确认 | 观察 | 未明确 |
+| CIFR（Cipher Mining） | 算力炒币股，重点标的，冲前高博弈 | 待确认 | 观察 | 未明确 |
+| IREN（Iris Energy） | 算力炒币股，重点标的，冲前高博弈 | 待确认 | 观察 | 未明确 |
+| HOOD（Robinhood） | 币股小仓位，73点几未出完 | 待确认 | 观察 | 未明确 |
+| MU（美光） | 特朗普周末讲话考虑入股美光像英特尔那样，今天涨多；没有入股前都会回调给政府入的机会 | 回调至上周支撑（652附近） | 稍微回调点再加，不追涨 | 政府入股预期落空或延迟 |
 
 ## 其他用户
 ### 用户观点提炼
-- 多数用户踏空存储（美光）和半导体，情绪急躁，有人想追涨，有人后悔上次回调没买。
-- 部分用户讨论了券商限制、账户转移（嘉信、盈透、长桥转新加坡）以及香港身份问题，担忧资金出逃风险。
-- 有用户提出'祖训看空不做空'，并回忆做空亏损经历；也有用户尝试做空半导体（SOXS）并迅速平仓获利2%。
-- 用户对特斯拉/SpaceX合并传闻有分歧：有人认为不可能，有人认为消息已提前反应，赵哥未对此表态。
-- 用户提到了SOFI、PLTR、ASTS、AMD、COIN等标的，但并无一致操作方向。
+- 踏空存储（美光）的后悔和FOMO情绪，多次提到“买不回美光”“存储太强”。
+- 英伟达下跌时讨论止损和支撑，部分用户表示“一股不卖”“等赵哥操作”。
+- 对CONL下跌的担忧，有人问“要不要加”“见6了”。
+- 讨论特斯拉和SpaceX合并传闻，多数人认为可能性低。
+- 讨论银行限制、券商出金变慢等风险，表达焦虑。
 
 ### 普通用户提到的标的
-- **SOFI（SoFi Technologies）**: 用户讨论：增持消息拉高后回落，有用户已回本
-- **TSLA（特斯拉）**: 用户讨论：SpaceX合并传闻导致尾盘拉升，多数认为不可能
-- **PLTR（Palantir）**: 用户讨论：有用户提到以前2块多买过，现在可能到100
-- **ASTS（AST SpaceMobile）**: 用户讨论：涨得猛，但管理员表示不会做太空板块
-- **MSFT（微软）**: 用户讨论：软，没动静
-- **WMT（沃尔玛）**: 用户讨论：没动静
-- **AMD（超威半导体）**: 用户讨论：周哥提到AMD到500了
-- **COIN（Coinbase）**: 用户讨论：币股不涨
-- **SOXS（Direxion Daily Semiconductor Bear 3x Shares）**: 用户讨论：做空半导体，小赚2%跑路
+- **TSLA（特斯拉）**: SpaceX合并传闻，用户讨论，涨幅一般
+- **SOFI（SoFi）**: 用户持有，今天涨后回落
+- **PLTR（Palantir）**: 用户提到之前买过2块多
+- **ASTS（AST SpaceMobile）**: 用户询问，赵哥表示不会做
+- **AMD（AMD）**: 用户提到股价到500
+- **COIN（Coinbase）**: 用户讨论比特币跌但coin不涨
+- **SOXS（三倍做空半导体）**: 用户提到7块了，祖训看空不做空
+- **IBM（IBM）**: 用户提到入了20亿半死不活
+- **TMUS（T-Mobile）**: 用户询问SpaceX合作伙伴
+- **JPM（摩根大通）**: 用户问金融板块
+- **APH（安费诺）**: 用户抄了一笔询问
 
 ## 市场主线
-- 资金强烈集中于存储板块（美光、三星、海力士），美光受特朗普'国家养老金买入'和'政府入股'预期单日暴涨超10%，存储吸走了其他板块流动性。
-- 英伟达（NVDA）回调5%，但仍处于106-107横盘区间，机构目标价195-240，下方104是关键支撑。
-- 比特币盘中突破78000后急跌，带动币股（CONL）下跌至6.9附近，资金疑似从币股流向存储。
-- 纳斯达克指数盘中突破30000点后回落，月末养老金再平衡和交割因素将加大周五波动。
+- 存储（美光）受特朗普政府入股预期暴涨，吸走大量资金，半导体板块整体强势。
+- 英伟达横盘调整，财报后杀call，资金从英伟达流出。
+- 比特币下跌，币股（CONL等）弱势，资金偏好硬件。
+- 月末再平衡和节日波动预期，周五是关键窗口。
 
 ## 期权与交易策略
 - 暂无明确记录。
 
 ## 事件与关键日期
-- 5月26日特朗普讲话：考虑入股美光等硬件公司，国家养老金买入存储
-- 5月26日伊朗外交部称美国违反停火协议
-- 5月26日富途15个点大涨
-- 5月31日（周五）月末养老金再平衡和交割日
-- 6月9日左右CONL投票日期可能模糊公布
-- 6月12日SpaceX IPO传闻（未确认）
-- 马斯克考虑合并SpaceX与特斯拉传闻（分歧大）
+- 周五月末（2026-05-29）养老金再平衡和节日波动
+- 6月9日CONL可能急跌窗口
+- SpaceX IPO计划6月12日
 
 ## 风险与观察点
-- 追涨存储（美光）可能被回调套牢，政府入股公告前必有回档。
-- NVDA若跌破104且无支撑，小仓位试错止损后可能错失后续机会。
-- CONL阴跌不回弹，无资金介入长期横盘。
-- 券商/银行政策风险：长桥转新加坡慢，内地汇丰停止开户，兴业卡被查，资金进出受阻。
-- 特朗普政策反复：若放弃入股硬件，存储和光模块逻辑崩塌。
+- 追涨存储的风险，可能高位接盘。
+- 政府入股预期落空导致存储行情逆转。
+- CONL缺乏资金介入继续下跌。
+- 月末波动可能双向剧烈，注意仓位控制。
+- 券商出金和银行限制风险，影响资金流动性。
